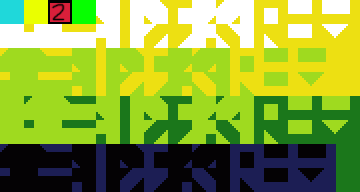
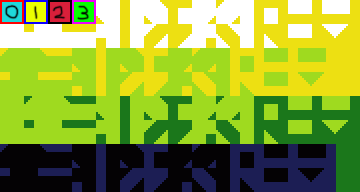
fix mapping shader

Changed region(s): [[0.0, 0.0, 0.275, 0.125]]

diff --git a/SuperTerrain/src/TerrainComponent.cpp b/SuperTerrain/src/TerrainComponent.cpp
@@ -117,29 +117,28 @@ namespace
         "{\n"
         "    uint value = texture(u_lookupTexture, v_texCoord).r;\n"
 
-        "    if(u_output == 0 || u_output == 1)\n"
+        "    if(u_output == 0)\n"
         "    {\n"
         //"        float alpha = clamp(float(value & 0xFFu), 0.0, 1.0);"
         //"        colour = vec4(colours[(value & 0xFFu)], alpha);\n"
 
         "        float index = float(value & 0xFFu);\n"
         "        vec2 position = vec2(mod(index, u_tilesetCount.x), floor((index / u_tilesetCount.x) + epsilon)) / u_tilesetCount;\n"
-        //"        vec2 offsetCoord = (v_texCoord * (textureSize(u_lookupTexture, 0))) / u_tileSize;\n"
-        //"        vec2 offset = mod(offsetCoord, 1.0) / u_tilesetCount;\n"
-        "vec2 offset = mod(v_texCoord, vec2(1.0 / 64.0));\n"
-        "vec2 ratio = offset / vec2(1.0 / 64.0);\n"
-        "offset = ratio * (1.0 / u_tileSize);\n"
-        "offset.x *= 1.6;\n"
-        "offset.y *= 2.66;\n"
+
+        "        vec2 texelSize = vec2(1.0) / textureSize(u_lookupTexture, 0);\n"
+        "        vec2 offset = mod(v_texCoord, texelSize);\n"
+        "        vec2 ratio = offset / texelSize;\n"
+        "        offset = ratio * (1.0 / u_tileSize);\n"
+        "        offset *= u_tileSize / u_tilesetCount;"
 
         "        colour = texture(u_tileTexture, position + offset);\n"
         "        return;\n"
         "    }\n"
-        "    if(u_output == 2)\n"
+        "    if(u_output == 1)\n"
         "    {\n"
         "        colour = vec4(colours[(value & 0xFFu)] * 0.8, 1.0);\n"
         "    }\n"
-        /*"    else if(u_output == 2)\n"
+        "    else if(u_output == 2)\n"
         "    {\n"
         "        if((value & 0xFFu) == 0u)\n"
         "        {\n"
@@ -149,7 +148,7 @@ namespace
         "        {\n"
         "            colour = vec4(biomes[(value & 0x0F00u) >> 8], 1.0);\n"
         "        }\n"
-        "    }\n"*/
+        "    }\n"
         "    else if(u_output == 3)\n"
         "    {\n"
         "        colour = vec4(biomes[(value & 0x0F00u) >> 8] * colours[(value & 0xFFu)], 1.0);\n"
@@ -209,7 +208,7 @@ TerrainComponent::TerrainComponent(xy::MessageBus& mb)
     addMessageHandler(mh);
 
     m_terrainShader.loadFromMemory(vertex, tileShader);
-    m_tilesetTexture.loadFromFile("assets/images/tiles/test_set02.png");
+    m_tilesetTexture.loadFromFile("assets/images/tiles/test_set.png");
     m_terrainShader.setUniform("u_tileTexture", m_tilesetTexture);
 
     //set up the texture pool
